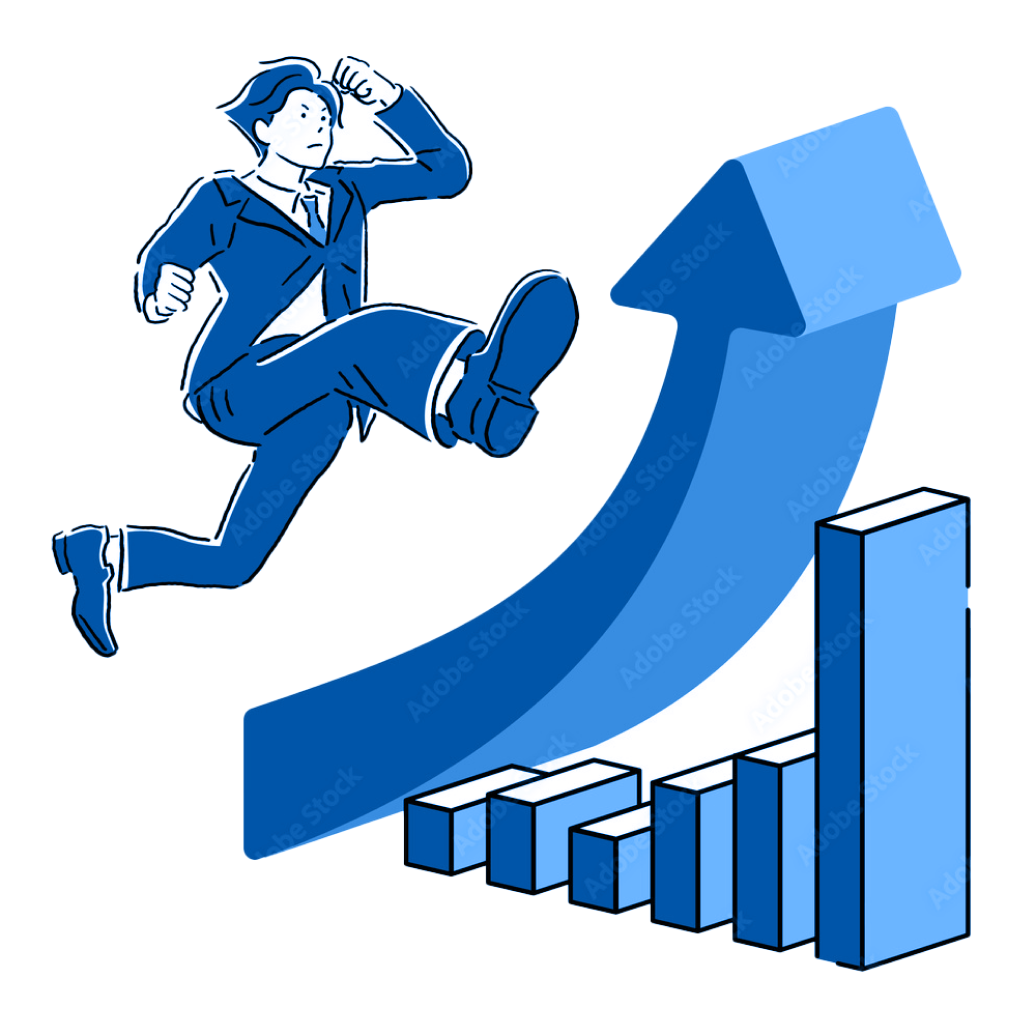
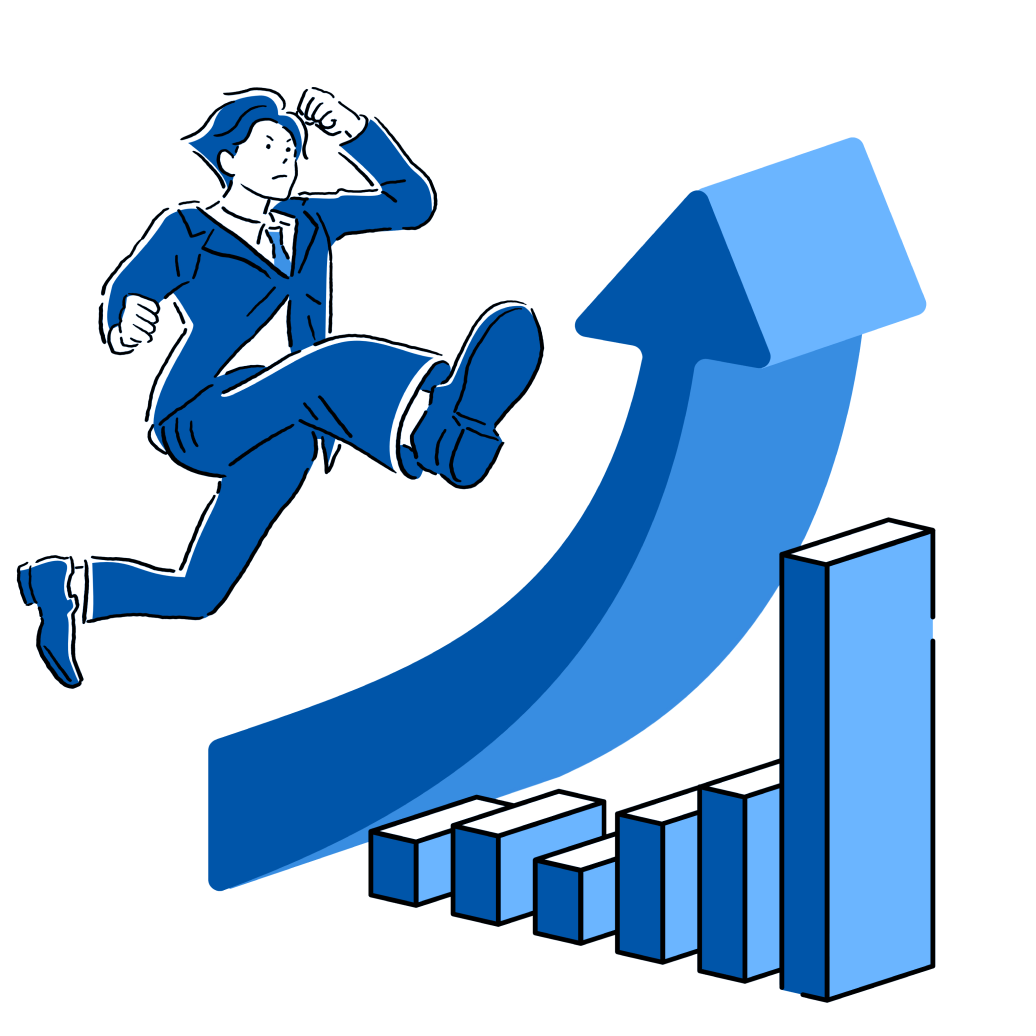
画像変更

diff --git a/wp-content/themes/bss-theme/parts/home/parts-home-features.php b/wp-content/themes/bss-theme/parts/home/parts-home-features.php
@@ -34,7 +34,7 @@
             </div>
             <div class="lists-image">
                 <div class="image-wrap">
-                    <img src="<?php echo theme_image_directory(); ?>/home/feature01.png">
+                    <img src="<?php echo theme_image_directory(); ?>/home/feature02.png">
                 </div>
             </div>
         </li>
@@ -52,7 +52,7 @@
             </div>
             <div class="lists-image">
                 <div class="image-wrap">
-                    <img src="<?php echo theme_image_directory(); ?>/home/feature01.png">
+                    <img src="<?php echo theme_image_directory(); ?>/home/feature03.png">
                 </div>
             </div>
         </li>
@@ -71,7 +71,7 @@
             </div>
             <div class="lists-image">
                 <div class="image-wrap">
-                    <img src="<?php echo theme_image_directory(); ?>/home/feature01.png">
+                    <img src="<?php echo theme_image_directory(); ?>/home/feature04.png">
                 </div>
             </div>
         </li>
